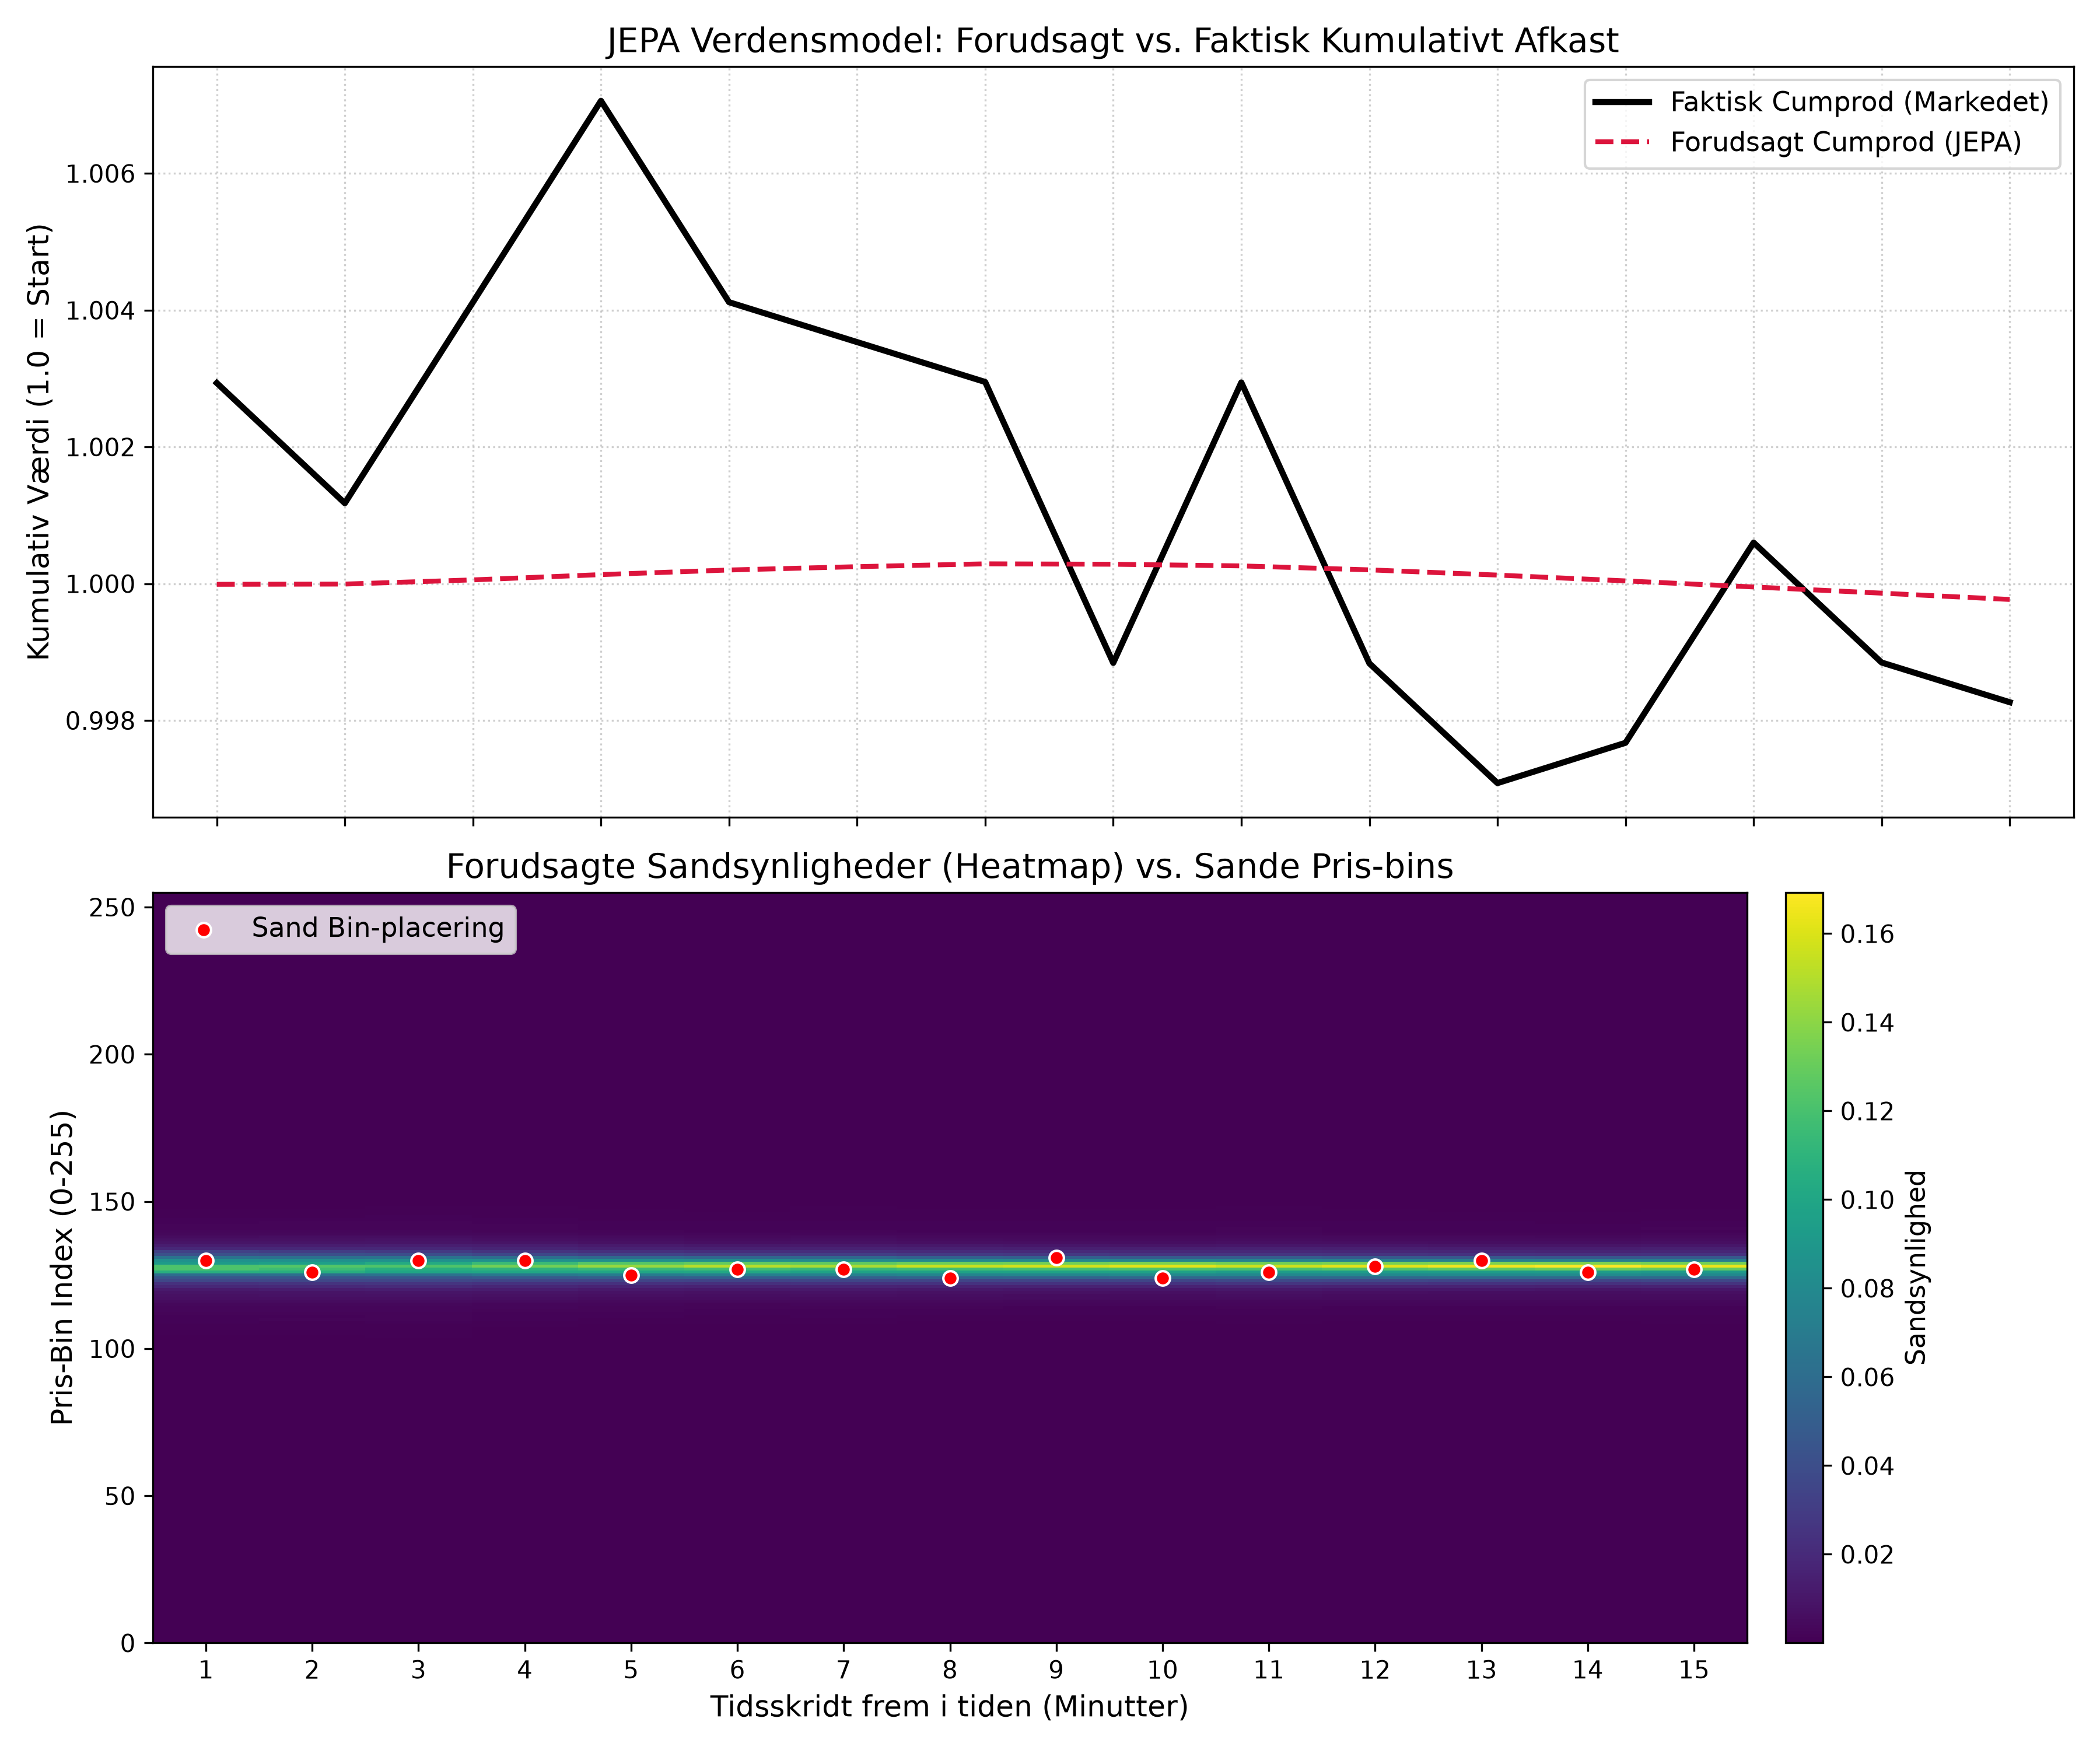
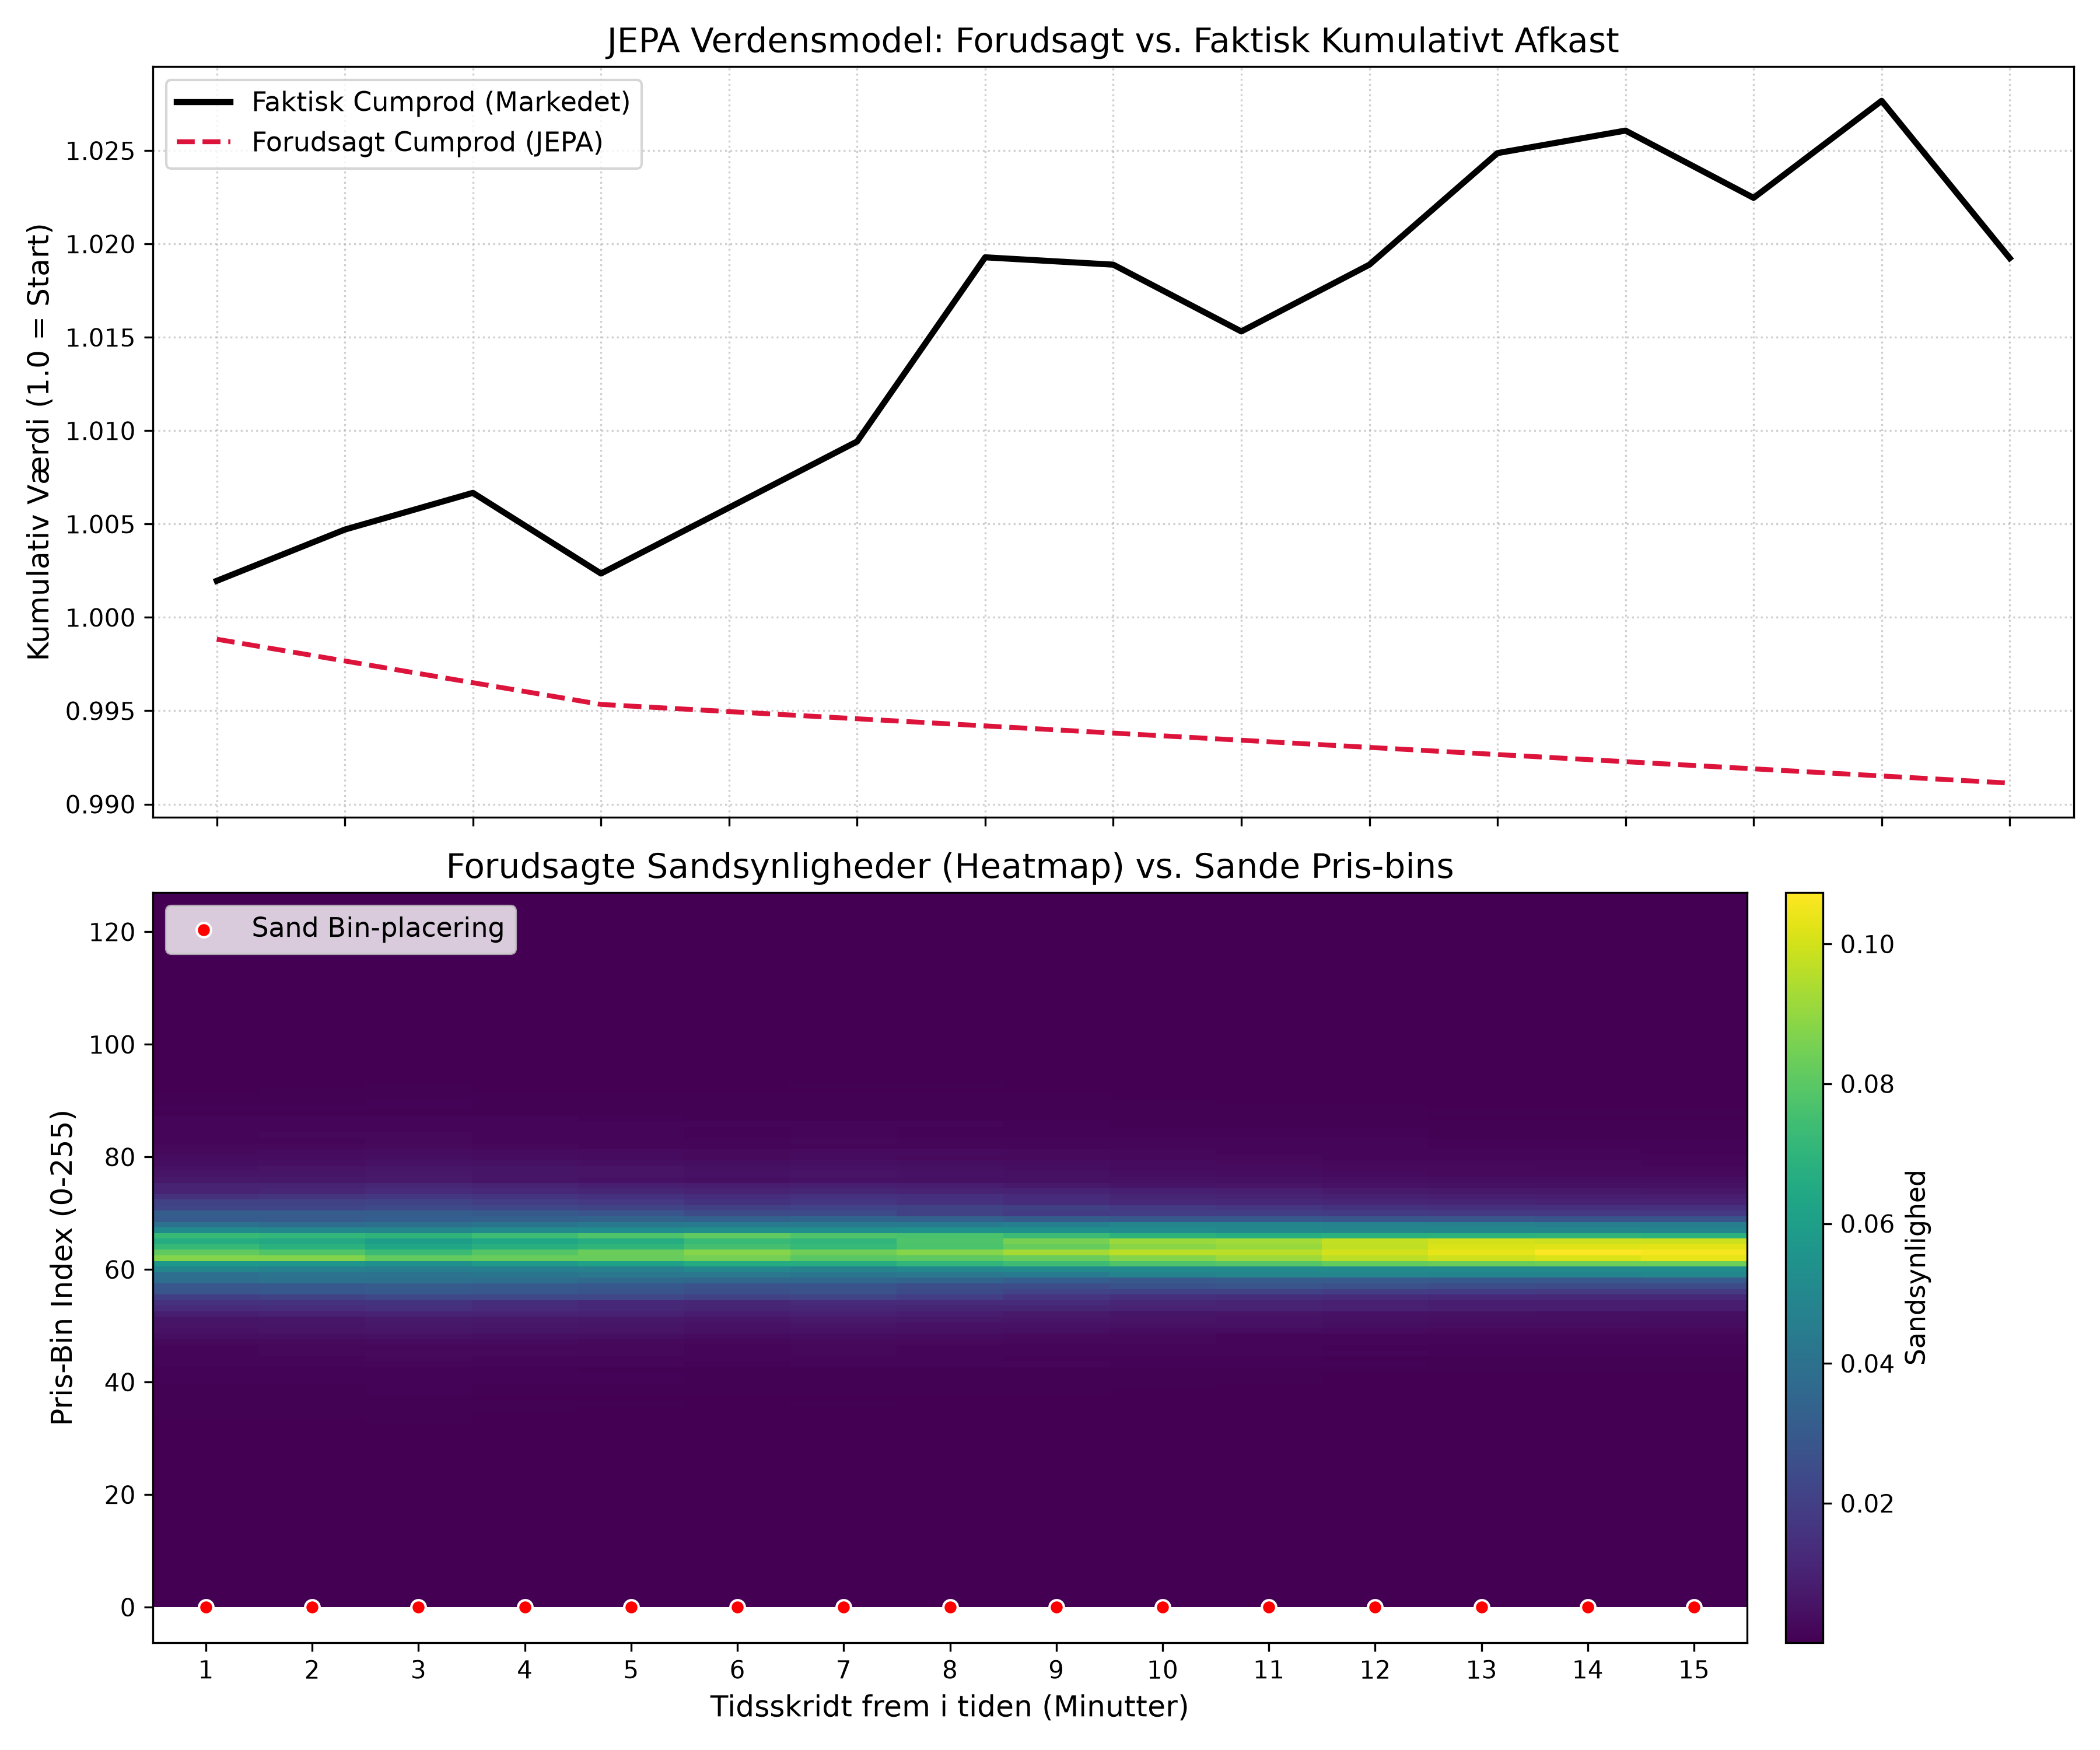
Changes

diff --git a/src/jepa.py b/src/jepa.py
@@ -31,10 +31,10 @@ class JEPA(L.LightningModule):
 
         self.MSELoss = nn.MSELoss()
         self.SIGRegLoss = SIGReg()
-        self.KLDLoss = nn.KLDivLoss(reduction='batchmean')
+        self.CrossEntropyLoss = nn.CrossEntropyLoss()
 
         self.lam_SIGReg = cfg['jepa']['lam_SIGReg']
-        self.lam_KLD = cfg['jepa']['lam_KLD']
+        self.lam_CE = cfg['jepa']['lam_CE']
 
         self.lr = cfg['jepa']['lr']
 
@@ -67,21 +67,19 @@ class JEPA(L.LightningModule):
 
         Z_hat, logits = self.predict(Z_in)  # logits shape: [B, Seq-1, bins]
 
-        log_probs = F.log_softmax(logits, dim=-1)
+        y_target = y[:, 1:]  # Form: [B, Seq-1, 1]
 
-        y_target = y[:, 1:]  # Form: [B, Seq-1, bins]
-
-        log_probs_flat = log_probs.reshape(-1, log_probs.size(-1))
-        y_target_flat = y_target.reshape(-1, y_target.size(-1))
+        logits_flat = logits.reshape(-1, logits.size(-1))
+        y_target_flat = y_target.reshape(-1, y_target.size(-1)).squeeze(-1)
 
         L_state = self.MSELoss(Z_hat, Z_target)
-        L_kld = self.KLDLoss(log_probs_flat, y_target_flat) # Bruger nu de fladtrykte versioner
+        L_ce = self.CrossEntropyLoss(logits_flat, y_target_flat) # Bruger nu de fladtrykte versioner
         L_sigreg = self.SIGRegLoss(Z.permute(1, 0, 2))
 
-        L = L_state + self.lam_KLD * L_kld + self.lam_SIGReg * L_sigreg
+        L = L_state + self.lam_CE * L_ce + self.lam_SIGReg * L_sigreg
 
         self.log('train_state_loss', L_state)
-        self.log('train_kld_loss', L_kld)
+        self.log('train_ce_loss', L_ce)
         self.log('train_sigreg_loss', L_sigreg)
         self.log('train_loss', L)
 
@@ -90,29 +88,59 @@ class JEPA(L.LightningModule):
     
     def validation_step(self, batch, batch_idx):
         X, y = batch['sample'], batch['target']
-        Z = self.encode(X)
+        Z = self.encode(X)  # Form: [B, Seq, d_model]
 
-        Z_in = Z[:, :-1]
-        Z_target = Z[:, 1:]
+        horizon = 15  # Hvor mange skridt vi vil drømme frem i tiden
+        
+        # Vi klipper historikken, så vi har 'horizon' antal sande skridt til slut at sammenligne med
+        start_idx = Z.size(1) - horizon - 1
+        Z_history = Z[:, :start_idx+1, :]  # Vores udgangspunkt (prompt)
 
-        Z_hat, logits = self.predict(Z_in)
-        log_probs = F.log_softmax(logits, dim=-1)
+        autoreg_losses = []
+        autoreg_kld_losses = []
 
-        y_target = y[:, 1:]  # Form: [B, Seq-1, bins]
+        # Autoregressiv løkke inde i valideringen
+        for t in range(horizon):
+            # Forudsig det næste skridt baseret på den historik, modellen SELV har opbygget
+            Z_next_pred, logits = self.predict(Z_history)
 
-        log_probs_flat = log_probs.reshape(-1, log_probs.size(-1))
-        y_target_flat = y_target.reshape(-1, y_target.size(-1))
+            # Hent de absolut nyeste forudsigelser for dette tidsskridt
+            new_Z_pred = Z_next_pred[:, -1:, :]
+            new_logits = logits[:, -1:, :]
 
-        L_state = self.MSELoss(Z_hat, Z_target)
-        L_kld = self.KLDLoss(log_probs_flat, y_target_flat) # Bruger nu de fladtrykte versioner
+            # Find de tilsvarende SANDE værdier på markedet for dette specifikke tidsskridt
+            target_t = start_idx + 1 + t
+            Z_target_t = Z[:, target_t:target_t+1, :]
+            y_target_t = y[:, target_t:target_t+1, :]
+
+            # Flad dimensionerne ud til vores tab-funktioner
+            logits_flat = new_logits.reshape(-1, new_logits.size(-1))
+            y_flat = y_target_t.reshape(-1, y_target_t.size(-1))
+
+            # Beregn tab for dette specifikke skridt i drømmen
+            L_state_t = self.MSELoss(new_Z_pred, Z_target_t)
+            L_kld_t = self.KLDLoss(F.log_softmax(logits_flat, dim=-1), y_flat)
+
+            autoreg_losses.append(L_state_t + self.lam_KLD * L_kld_t)
+            autoreg_kld_losses.append(L_kld_t)
+
+            # --- DET CRUCIALE SKRIDT ---
+            # Vi tilføjer modellens EGET gæt til historikken, inden næste itteration
+            Z_history = torch.cat([Z_history, new_Z_pred], dim=1)
+
+        # Beregn det gennemsnitlige tab over hele den 15-skridts lange drømme-trajektorie
+        # Vi tilføjer også det globale SIGReg tab for hele sekvensen
         L_sigreg = self.SIGRegLoss(Z.permute(1, 0, 2))
+        
+        val_loss_autoreg = torch.stack(autoreg_losses).mean() + self.lam_SIGReg * L_sigreg
+        val_kld_autoreg = torch.stack(autoreg_kld_losses).mean()
 
-        L = L_state + self.lam_KLD * L_kld + self.lam_SIGReg * L_sigreg
-
-        self.log('val_state_loss', L_state, on_step=False, on_epoch=True)
-        self.log('val_kld_loss', L_kld, on_step=False, on_epoch=True)
+        # Log de akkumulerede værdier til WandB
+        # Nu vil din EarlyStopping holde øje med val_loss (som nu afspejler drømme-robusthed)
+        self.log('val_loss', val_loss_autoreg, on_step=False, on_epoch=True, prog_bar=True)
+        self.log('val_kld_loss', val_kld_autoreg, on_step=False, on_epoch=True)
         self.log('val_sigreg_loss', L_sigreg, on_step=False, on_epoch=True)
-        self.log('val_loss', L, on_step=False, on_epoch=True, prog_bar=True)
+
 
     def configure_optimizers(self):
         optimizer = optim.AdamW(self.parameters(), lr=self.lr)
@@ -198,7 +226,7 @@ if __name__ == '__main__':
         max_epochs = cfg['jepa']['training']['epochs'],
         accelerator = "auto", 
         devices = "auto",
-        accumulate_grad_batches = 4,
+        #accumulate_grad_batches = 4,
         gradient_clip_val = 1.0,
         logger = wandb_logger,
         callbacks = [checkpoint_callback, early_stop_callback, lr_monitor],

diff --git a/src/modules.py b/src/modules.py
@@ -14,7 +14,9 @@ class Predictor(nn.Module):
                                     ])
         self.return_head = nn.Sequential(
             nn.Linear(d_model, 2*d_model),
+            nn.LayerNorm(2*d_model),       
             nn.SiLU(),
+            nn.Dropout(dropout),         
             nn.Linear(2*d_model, num_bins)
         )
 
@@ -31,7 +33,7 @@ class Predictor(nn.Module):
         return x, self.return_head(x)
 
     def create_causal_mask(self, seq_len):
-        return torch.tril(torch.ones(seq_len, seq_len))
+        return torch.tril(torch.ones(seq_len, seq_len)).unsqueeze(0).unsqueeze(0)
 
 class Encoder(nn.Module):
     def __init__(self, input_dim, d_model, num_layers, num_heads, max_len, dropout = 0.1):
@@ -172,7 +174,7 @@ class FeedForward(nn.Module):
 
         self.net = nn.Sequential(
             nn.Linear(d_model, dim_ff),
-            nn.ReLU(),
+            nn.SiLU(),
             nn.Dropout(dropout),
             nn.Linear(dim_ff, d_model),
         )
@@ -200,11 +202,15 @@ class TransformerEncoderLayer(nn.Module):
         self.dropout2 = nn.Dropout(dropout)
 
     def forward(self, x, mask=None):
-        attn_out = self.self_attn(x, mask)
-        x = self.norm1(x + self.dropout1(attn_out))
+        # Pre-LN på Attention grenen
+        norm_x = self.norm1(x)
+        attn_out = self.self_attn(norm_x, mask)
+        x = x + self.dropout1(attn_out)
 
-        ff_out = self.ffn(x)
-        x = self.norm2(x + self.dropout2(ff_out))
+        # Pre-LN på FeedForward grenen
+        norm_x2 = self.norm2(x)
+        ff_out = self.ffn(norm_x2)
+        x = x + self.dropout2(ff_out)
 
         return x
 
@@ -236,3 +242,25 @@ class TransformerEncoder(nn.Module):
         for layer in self.layers:
             x = layer(x, mask)
         return x
+
+if __name__ == '__main__':
+    # def __init__(self, d_model, num_layers, num_heads, max_len, num_bins, dropout = 0.1)
+    from omegaconf import OmegaConf
+    cfg = OmegaConf.load('./config.yaml')
+    '''predictor = Predictor(
+        d_model = cfg['jepa']['d_model'],
+        num_layers = cfg['jepa']['predictor']['num_layers'],
+        num_heads = cfg['jepa']['predictor']['num_heads'],
+        max_len = cfg['jepa']['predictor']['max_len'],
+        num_bins = cfg['jepa']['predictor']['num_bins']
+    )
+
+    Z = torch.rand((cfg['jepa']['training']['batch_size'], cfg['jepa']['predictor']['max_len'], cfg['jepa']['d_model']))
+    Z_prime = predictor(Z)'''
+    from data import CryptoDataset
+    from util import set_logger
+    logger = set_logger(cfg)
+    data = CryptoDataset(cfg)
+    t = data[0]['target']
+    print(t.shape)
+    print(t)

diff --git a/src/test_jepa.py b/src/test_jepa.py
@@ -60,7 +60,7 @@ def run_trajectory(checkpoint_path, cfg, horizon=15):
     return Z_true_segments[0], predicted_trajectory[0], y_true_segments[0], predicted_logits[0], test_dataset
 
 if __name__ == '__main__':
-    CHECKPOINT = "./models/treasured-dawn-25/jepa.ckpt" 
+    CHECKPOINT = "./models/glad-donkey-38/jepa.ckpt" 
     CONFIG = "./config.yaml"
     horizon = 15
 
@@ -71,7 +71,7 @@ if __name__ == '__main__':
 
     # 1. Beregn MSE i det latente rum
     MSE = np.mean((Z_true - Z_pred) ** 2)
-    logger.info(f'Avg. MSE in the latent space over {horizon} steps: {MSE:.4f}')
+    logger.info(f'MSE in the latent space over {horizon} steps: {MSE:.4f}')
 
     # 2. Omregn logits til rigtige sandsynligheder (Softmax)
     # Y_pred_logits har formen [horizon, bins]
@@ -83,16 +83,11 @@ if __name__ == '__main__':
     bin_centers = (bin_edges[:-1] + bin_edges[1:]) / 2.0
     bin_centers = bin_centers.cpu().numpy()
 
-    # 4. Beregn forventet (expected) afkast fra modellens sandsynligheder
-    # og find det sande afkast fra de sande bins (Y_true)
-    pred_returns = np.sum(Y_pred_probs * bin_centers, axis=-1)
-    
-    # Hvis Y_true er one-hot/smoothed, tager vi det vægtede gennemsnit eller argmax
-    true_bins = np.argmax(Y_true, axis=-1)
-    true_returns = bin_centers[true_bins]
+    pred_returns = np.argmax(Y_pred_probs, axis=-1)
+    pred_returns = bin_centers[pred_returns]
 
-    # 5. Beregn det kumulative afkast (cumprod)
-    # Finansielle afkast ganges op som: cumprod(1 + r)
+    true_returns = bin_centers[Y_true]
+
     true_cumprod = np.cumprod(1 + true_returns)
     pred_cumprod = np.cumprod(1 + pred_returns)
 
@@ -115,7 +110,7 @@ if __name__ == '__main__':
                     extent=[0.5, horizon + 0.5, 0, len(bin_centers) - 1])
     
     # Marker den korrekte (sande) bin med røde prikker hen over heatmappet
-    ax2.scatter(t_steps, true_bins, color='red', edgecolor='white', s=35, label='Sand Bin-placering', zorder=5)
+    ax2.scatter(t_steps, true_returns, color='red', edgecolor='white', s=35, label='Sand Bin-placering', zorder=5)
 
     ax2.set_title('Forudsagte Sandsynligheder (Heatmap) vs. Sande Pris-bins', fontsize=14)
     ax2.set_xlabel('Tidsskridt frem i tiden (Minutter)', fontsize=12)

diff --git a/src/data.py b/src/data.py
@@ -49,8 +49,8 @@ class CryptoDataset(Dataset):
         t = torch.bucketize(t, self.bin_edges) - 1
         t = torch.clamp(t, 0, cfg['data']['num_bins'] - 1)
 
-        t = gaussian_label_smoothing(t, cfg['data']['num_bins'], cfg['data']['sigma'])
-        self.targets = t.view(B, Seq, -1)
+        #t = gaussian_label_smoothing(t, cfg['data']['num_bins'], cfg['data']['sigma'])
+        self.targets = t.view(B, Seq, -1).long()
 
         logger.info(f"Dataset created! Mode: {mode}. Number of Sequences: {self.samples.size(0):,}")
 